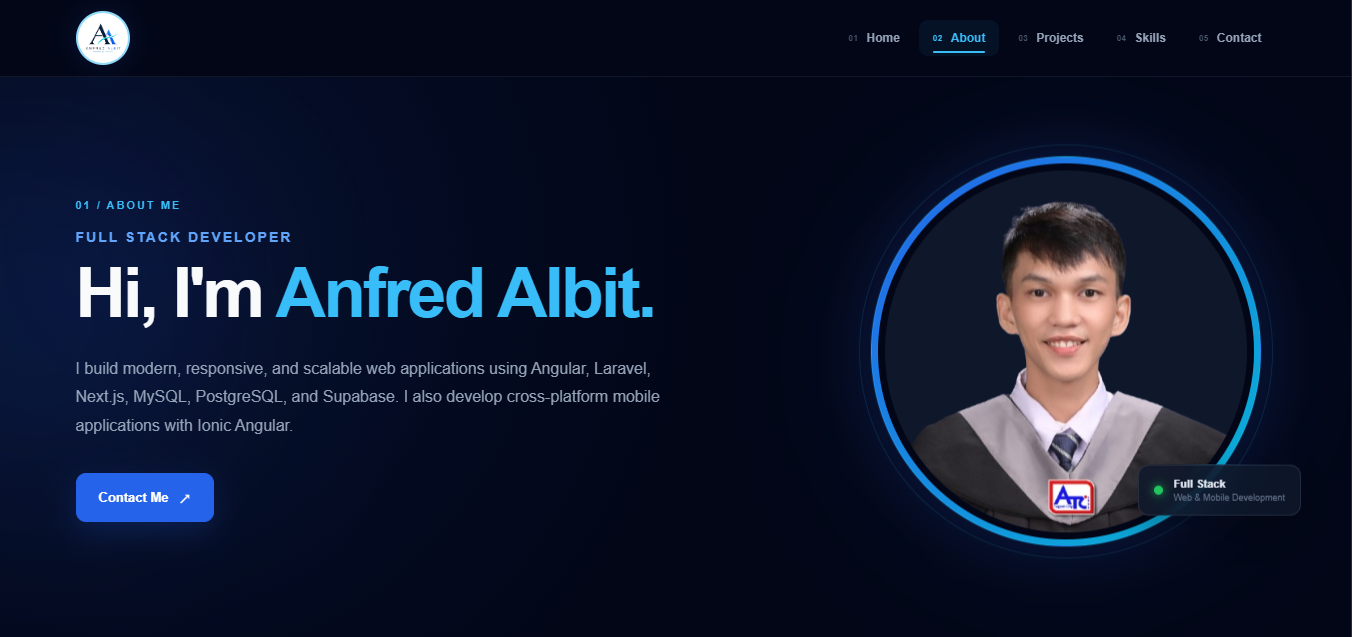
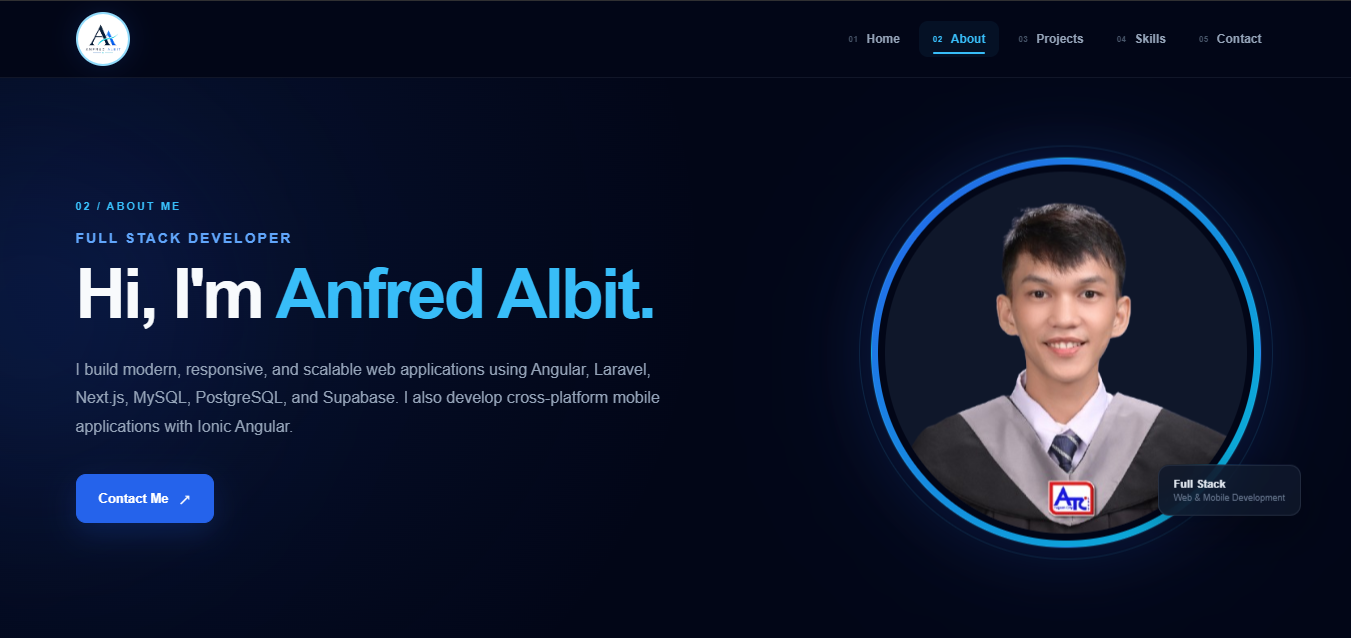
Refactor code structure for improved readability and maintainability

diff --git a/src/app/pages/project/project.html b/src/app/pages/project/project.html
@@ -138,6 +138,70 @@
 
             </article>
 
+
+          <!-- PROJECT 03 -->
+          <article class="project-card">
+
+              <div class="project-image">
+                  <img
+                      src="/images/atci-comsoc.png"
+                      alt="ATCI Comsoc"
+                  >
+
+                  <div class="project-overlay">
+                      <span>Organization Website</span>
+                  </div>
+              </div>
+
+              <div class="project-content">
+
+                  <div class="project-meta">
+                      <span>03</span>
+                      <span>Web Application</span>
+                  </div>
+
+                  <h2>ATCI Comsoc</h2>
+
+                  <p>
+                      A modern organization website developed for ATCI Comsoc
+                      to showcase its community, activities, announcements,
+                      projects, and digital presence through a clean and
+                      responsive interface.
+                  </p>
+
+                  <div class="tech">
+                      <span>HTML5</span>
+                      <span>CSS3</span>
+                      <span>JavaScript</span>
+                  </div>
+
+                  <div class="buttons">
+
+                      <a
+                          href="https://atci-comsoc.vercel.app/"
+                          target="_blank"
+                          rel="noopener noreferrer"
+                          class="btn"
+                      >
+                          Live Demo
+                          <b>↗</b>
+                      </a>
+
+                      <a
+                          href="#"
+                          class="btn-outline"
+                      >
+                          GitHub
+                          <b>↗</b>
+                      </a>
+
+                  </div>
+
+              </div>
+
+          </article>
+
+
         </div>
 
         <div class="projects-footer">

diff --git a/src/app/pages/about/about.html b/src/app/pages/about/about.html
@@ -30,7 +30,6 @@
         </div>
 
         <div class="floating-card">
-            <span class="dot"></span>
             <div>
                 <strong>Full Stack</strong>
                 <small>Web & Mobile Development</small>
@@ -65,7 +64,6 @@
 
         <div class="info-block">
             <strong>Bachelor of Science in Information Technology</strong>
-            <span>Information Technology</span>
         </div>
     </article>
 

diff --git a/src/app/pages/home/home.html b/src/app/pages/home/home.html
@@ -60,7 +60,6 @@
             </div>
 
             <div class="floating-card card-top">
-                <span class="dot"></span>
                 <div>
                     <strong>Available</strong>
                     <small>For opportunities</small>
